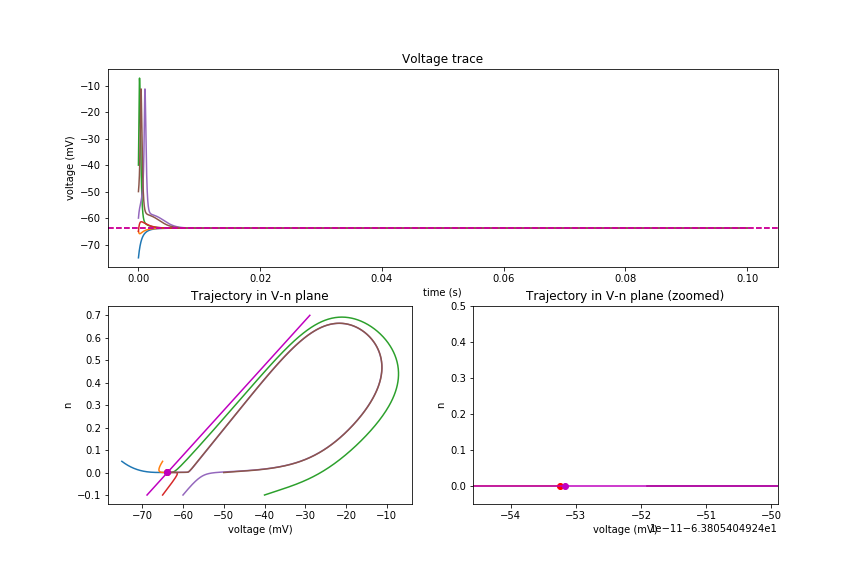
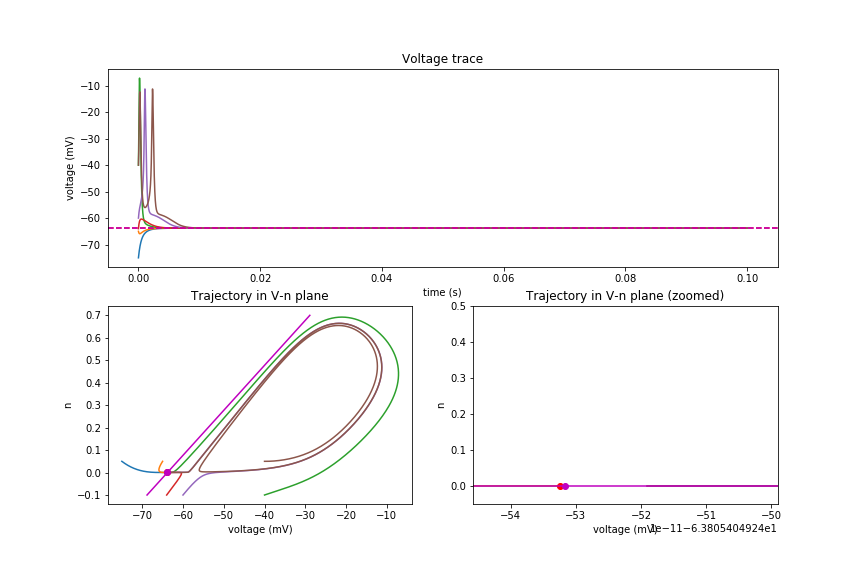
More plots

diff --git a/Neuron.py b/Neuron.py
@@ -287,10 +287,10 @@ E_K = -90 * mV
 tau = 1.0*ms
 
 #parameters to play with
-tau_n = .150*ms
-Iapp = 2* uA #/cm**2
+tau_n = .159*ms
+Iapp = 3* uA #/cm**2
 I_noise = 2.5*uA
-duration = 50000*ms
+duration = 10000*ms
 
 
 
@@ -306,9 +306,9 @@ n_inf = 1./(1+exp((-25-v/mV)/5.)) : 1
 m_inf = 1./(1+exp((-20-v/mV)/15.)) : 1
 '''
 
-plot_everything(tau_n=tau_n, Iapp=Iapp, duration=duration, I_noise=I_noise, number =1, v0=-30*mV, n0=-0)
+#plot_everything(tau_n=tau_n, Iapp=Iapp, duration=duration, I_noise=I_noise, number =1, v0=-30*mV, n0=-0)
 
-#find_points(tau_n=tau_n, Iapp=Iapp, v0=[-75,-65,-40, -62.1,-60,-50]*mV,n0=[.05,.05,-.03, -.1,-.1,-0])
+find_points(tau_n=tau_n, Iapp=Iapp)
 #find_sep_approx(tau_n=tau_n, Iapp=Iapp)
 #plot_field(tau_n, Iapp)
 
